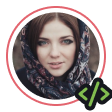
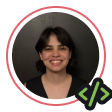
style: link hover + fix: personal info + fix: projects info

diff --git a/index.html b/index.html
@@ -23,19 +23,24 @@
         <div>
           <img
             src="./assets/img/Avatar.png"
-            alt="Fotografia de uma mulher jovem sorrindo, de cabelos castanhos, usando camiseta preta, com fundo neutro."
+            alt="Fotografia de uma mulher jovem, cabelos castanhos e lisos, pele clara, sorrindo, usando camiseta preta, com fundo neutro e estilo minimalista."
           />
         </div>
         <p class="subtitle">
-          Hello World! Meu nome é <span class="vermelho">Martina Santos</span> e
-          sou
+          Hello World! Meu nome é
+          <span class="vermelho">Juliana Figueira</span> e sou
         </p>
         <h1 class="title-lg">Desenvolvedora Fullstack</h1>
         <p class="text-sm">
-          Transformo necessidades em aplicações reais, evolventes e funcionais.
-          Desenvolvo sistemas através da minha paixão pela t ecnologia,
-          contribuindo com soluções inovadoras e eficazes para desafios
-          complexos.
+          Transformo necessidades em aplicações reais, envolventes e funcionais.
+          Desenvolvo sistemas movida pela minha paixão por tecnologia, sempre
+          buscando contribuir com soluções inovadoras e eficazes para desafios
+          complexos. <br />
+          <br />
+          Os projetos apresentados neste portfólio refletem essa trajetória e
+          foram desenvolvidos ao longo da minha jornada de estudos com a
+          Rocketseat, onde venho consolidando minhas habilidades na prática e
+          explorando novas possibilidades de desenvolvimento.
         </p>
 
         <div class="tags-container">
@@ -97,8 +102,12 @@
       </div>
 
       <div class="projetos">
-        <article class="projeto-individual">
-          <a href="" target="_blank">
+        <a
+          href="https://github.com/julianafc/Travelgram"
+          target="_blank"
+          class="projeto-link"
+        >
+          <article class="projeto-individual">
             <img
               class="projeto-img"
               src="./assets/img/Thumbnail_Project-01.png"
@@ -112,84 +121,116 @@
                 pelo mundo
               </p>
             </div>
-          </a>
-        </article>
+          </article>
+        </a>
 
-        <article class="projeto-individual">
-          <img
-            class="projeto-img"
-            src="./assets/img/Thumbnail_Project-02.png"
-            alt="Imagem de uma página inicial de portal de notícias, com manchetes, cards de notícias e barra lateral."
-          />
+        <a
+          href="https://github.com/julianafc/Tech_News"
+          target="_blank"
+          class="projeto-link"
+        >
+          <article class="projeto-individual">
+            <img
+              class="projeto-img"
+              src="./assets/img/Thumbnail_Project-02.png"
+              alt="Imagem de uma página inicial de portal de notícias, com manchetes, cards de notícias e barra lateral."
+            />
 
-          <div>
-            <h3 class="title-sm branco">Tech News</h3>
-            <p class="text-sm">
-              Homepage de um portal de notícias sobre a área de tecnologia
-            </p>
-          </div>
-        </article>
+            <div>
+              <h3 class="title-sm branco">Tech News</h3>
+              <p class="text-sm">
+                Homepage de um portal de notícias sobre a área de tecnologia
+              </p>
+            </div>
+          </article>
+        </a>
 
-        <article class="projeto-individual">
-          <img
-            class="projeto-img"
-            src="./assets/img/Thumbnail_Project-03.png"
-            alt="Imagem de uma página de receita culinária, mostrando ingredientes, etapas e foto de cupcakes."
-          />
+        <a
+          href="https://github.com/julianafc/Pagina-Cupcake"
+          target="_blank"
+          class="projeto-link"
+        >
+          <article class="projeto-individual">
+            <img
+              class="projeto-img"
+              src="./assets/img/Thumbnail_Project-03.png"
+              alt="Imagem de uma página de receita culinária, mostrando ingredientes, etapas e foto de cupcakes."
+            />
 
-          <div>
-            <h3 class="title-sm branco">Página de receita</h3>
-            <p class="text-sm">
-              Página com o passo a passo de uma receita para cupcakes
-            </p>
-          </div>
-        </article>
+            <div>
+              <h3 class="title-sm branco">Página de receita</h3>
+              <p class="text-sm">
+                Página com o passo a passo de uma receita para cupcakes
+              </p>
+            </div>
+          </article>
+        </a>
 
-        <article class="projeto-individual">
-          <img
-            class="projeto-img"
-            src="./assets/img/Thumbnail_Project-04.png"
-            alt="Imagem de uma página de receita culinária, mostrando ingredientes, etapas e foto de cupcakes."
-          />
+        <a
+          href="https://github.com/julianafc/NLW_16_Planner"
+          target="_blank"
+          class="projeto-link"
+        >
+          <article class="projeto-individual">
+            <img
+              class="projeto-img"
+              src="./assets/img/Thumbnail_Project-04.png"
+              alt="Interface de um planner de viagens, com listas de tarefas, calendário e barra de progresso colorida."
+            />
 
-          <div>
-            <h3 class="title-sm branco">Zingen</h3>
-            <p class="text-sm">
-              Landing Page completa e responsiva de um aplicativo de Karaokê
-            </p>
-          </div>
-        </article>
+            <div>
+              <h3 class="title-sm branco">Planner de Viagens</h3>
+              <p class="text-sm">
+                Site de planejamento de viagens com lista de tarefas e controle
+                de progresso
+              </p>
+            </div>
+          </article>
+        </a>
 
-        <article class="projeto-individual">
-          <img
-            class="projeto-img"
-            src="./assets/img/Thumbnail_Project-05.png"
-            alt="Imagem de uma página de receita culinária, mostrando ingredientes, etapas e foto de cupcakes."
-          />
+        <a
+          href="https://github.com/julianafc/Nearby-App"
+          target="_blank"
+          class="projeto-link"
+        >
+          <article class="projeto-individual">
+            <img
+              class="projeto-img"
+              src="./assets/img/Thumbnail_Project-05.png"
+              alt="Tela de aplicativo mobile Nearby App, com mapa, marcadores de estabelecimentos próximos e botões para resgatar cupons."
+            />
 
-          <div>
-            <h3 class="title-sm branco">Refund</h3>
-            <p class="text-sm">
-              Um sistema para pedido e acompanhamento de reembolso
-            </p>
-          </div>
-        </article>
+            <div>
+              <h3 class="title-sm branco">Nearby App</h3>
+              <p class="text-sm">
+                App mobile para encontrar estabelecimentos próximos e resgatar
+                cupons exclusivos
+              </p>
+            </div>
+          </article>
+        </a>
 
-        <article class="projeto-individual">
-          <img
-            class="projeto-img"
-            src="./assets/img/Thumbnail_Project-06.png"
-            alt="Imagem de uma página de receita culinária, mostrando ingredientes, etapas e foto de cupcakes."
-          />
+        <a
+          href="https://github.com/julianafc/Local_Turistico"
+          target="_blank"
+          class="projeto-link"
+        >
+          <article class="projeto-individual">
+            <img
+              class="projeto-img"
+              src="./assets/img/Thumbnail_Project-06.png"
+              alt="Página de turismo sobre Busan, com fotos de pontos turísticos, informações e cards de dicas para viajantes."
+            />
 
-          <div>
-            <h3 class="title-sm branco">Página de turismo</h3>
-            <p class="text-sm">
-              Página com as principais informações para quem quer viajar para
-              Busan
-            </p>
-          </div>
-        </article>
+            <div>
+              <h3 class="title-sm branco">Página de turismo</h3>
+              <p class="text-sm">
+                Página com as principais informações para quem quer viajar para
+                Busan
+              </p>
+            </div>
+          </article>
+        </a>
       </div>
     </main>
   </body>

diff --git a/styles/main.css b/styles/main.css
@@ -38,6 +38,11 @@ main {
     border-radius: 8px;
 }
 
+.projeto-link:hover {
+    outline: 1px solid var(--gray-300);
+    border-radius: 12px;
+}
+
 @media (max-width: 934px) {
     .projetos {
         grid-template-columns: repeat(2, 1fr);

diff --git a/styles/global.css b/styles/global.css
@@ -66,6 +66,6 @@
     color: var(--gray-100);
 }
 
-/* a {
+a {
     text-decoration: none;
-} */
+}
